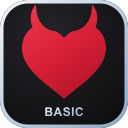
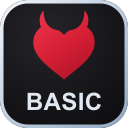
Improve badge edition label readability [skip ci]

Changed region(s): [[0.1562, 0.0312, 0.8438, 0.9062]]

diff --git a/FL_Tools_Basic.user.js b/FL_Tools_Basic.user.js
@@ -1508,7 +1508,7 @@
     }
     flApplyAccessibility(); flSmartDockPlacement();
   }
-  const FL_TOOLS_ICON_SVG = "<svg xmlns=\"http://www.w3.org/2000/svg\" viewBox=\"0 0 64 64\" role=\"img\" aria-label=\"FL Tools Basic\"><defs><radialGradient id=\"surface\" cx=\"38%\" cy=\"28%\" r=\"85%\"><stop offset=\"0\" stop-color=\"#25242a\"/><stop offset=\".58\" stop-color=\"#17171a\"/><stop offset=\"1\" stop-color=\"#0e0e10\"/></radialGradient><linearGradient id=\"heart\" x1=\".2\" y1=\"0\" x2=\".8\" y2=\"1\"><stop offset=\"0\" stop-color=\"#ed3348\"/><stop offset=\".52\" stop-color=\"#d51f35\"/><stop offset=\"1\" stop-color=\"#ae1428\"/></linearGradient><linearGradient id=\"edition\" x1=\"0\" y1=\"0\" x2=\"1\" y2=\"1\"><stop offset=\"0\" stop-color=\"#f1f5f9\"/><stop offset=\"1\" stop-color=\"#8fa8c3\"/></linearGradient></defs><rect width=\"64\" height=\"64\" rx=\"14\" fill=\"url(#surface)\"/><path transform=\"translate(4 .5) scale(.875)\" fill=\"url(#heart)\" d=\"M32 56C26 50 8 40 8 27c0-5 2-9 6-12-2-5-1-10 2-13 0 8 3 13 9 15 3 0 5 2 7 4 2-2 4-4 7-4 6-2 9-7 9-15 3 3 4 8 2 13 4 3 6 7 6 12 0 13-18 23-24 29Z\"/><rect x=\".875\" y=\".875\" width=\"62.25\" height=\"62.25\" rx=\"13.125\" fill=\"none\" stroke=\"url(#edition)\" stroke-width=\"1.75\"/><text x=\"32\" y=\"58\" fill=\"url(#edition)\" font-family=\"Arial, sans-serif\" font-size=\"6\" font-weight=\"800\" letter-spacing=\".225\" text-anchor=\"middle\">BASIC</text></svg>";
+  const FL_TOOLS_ICON_SVG = "<svg xmlns=\"http://www.w3.org/2000/svg\" viewBox=\"0 0 64 64\" role=\"img\" aria-label=\"FL Tools Basic\"><defs><radialGradient id=\"surface\" cx=\"38%\" cy=\"28%\" r=\"85%\"><stop offset=\"0\" stop-color=\"#25242a\"/><stop offset=\".58\" stop-color=\"#17171a\"/><stop offset=\"1\" stop-color=\"#0e0e10\"/></radialGradient><linearGradient id=\"heart\" x1=\".2\" y1=\"0\" x2=\".8\" y2=\"1\"><stop offset=\"0\" stop-color=\"#ed3348\"/><stop offset=\".52\" stop-color=\"#d51f35\"/><stop offset=\"1\" stop-color=\"#ae1428\"/></linearGradient><linearGradient id=\"edition\" x1=\"0\" y1=\"0\" x2=\"1\" y2=\"1\"><stop offset=\"0\" stop-color=\"#f1f5f9\"/><stop offset=\"1\" stop-color=\"#8fa8c3\"/></linearGradient></defs><rect width=\"64\" height=\"64\" rx=\"14\" fill=\"url(#surface)\"/><path transform=\"translate(11.52 4) scale(.64)\" fill=\"url(#heart)\" d=\"M32 56C26 50 8 40 8 27c0-5 2-9 6-12-2-5-1-10 2-13 0 8 3 13 9 15 3 0 5 2 7 4 2-2 4-4 7-4 6-2 9-7 9-15 3 3 4 8 2 13 4 3 6 7 6 12 0 13-18 23-24 29Z\"/><rect x=\".875\" y=\".875\" width=\"62.25\" height=\"62.25\" rx=\"13.125\" fill=\"none\" stroke=\"url(#edition)\" stroke-width=\"1.75\"/><text x=\"32\" y=\"55\" fill=\"#e2e8f0\" font-family=\"Arial, sans-serif\" font-size=\"12\" font-weight=\"800\" letter-spacing=\".2\" text-anchor=\"middle\">BASIC</text></svg>";
   /* BEGIN generated:handoff */
   /* FL Tools edition handoff. Hosted on Typical-Bits/fl-tools-basic.
      Source of truth — edit here, then run: node scripts/sync-core.mjs
